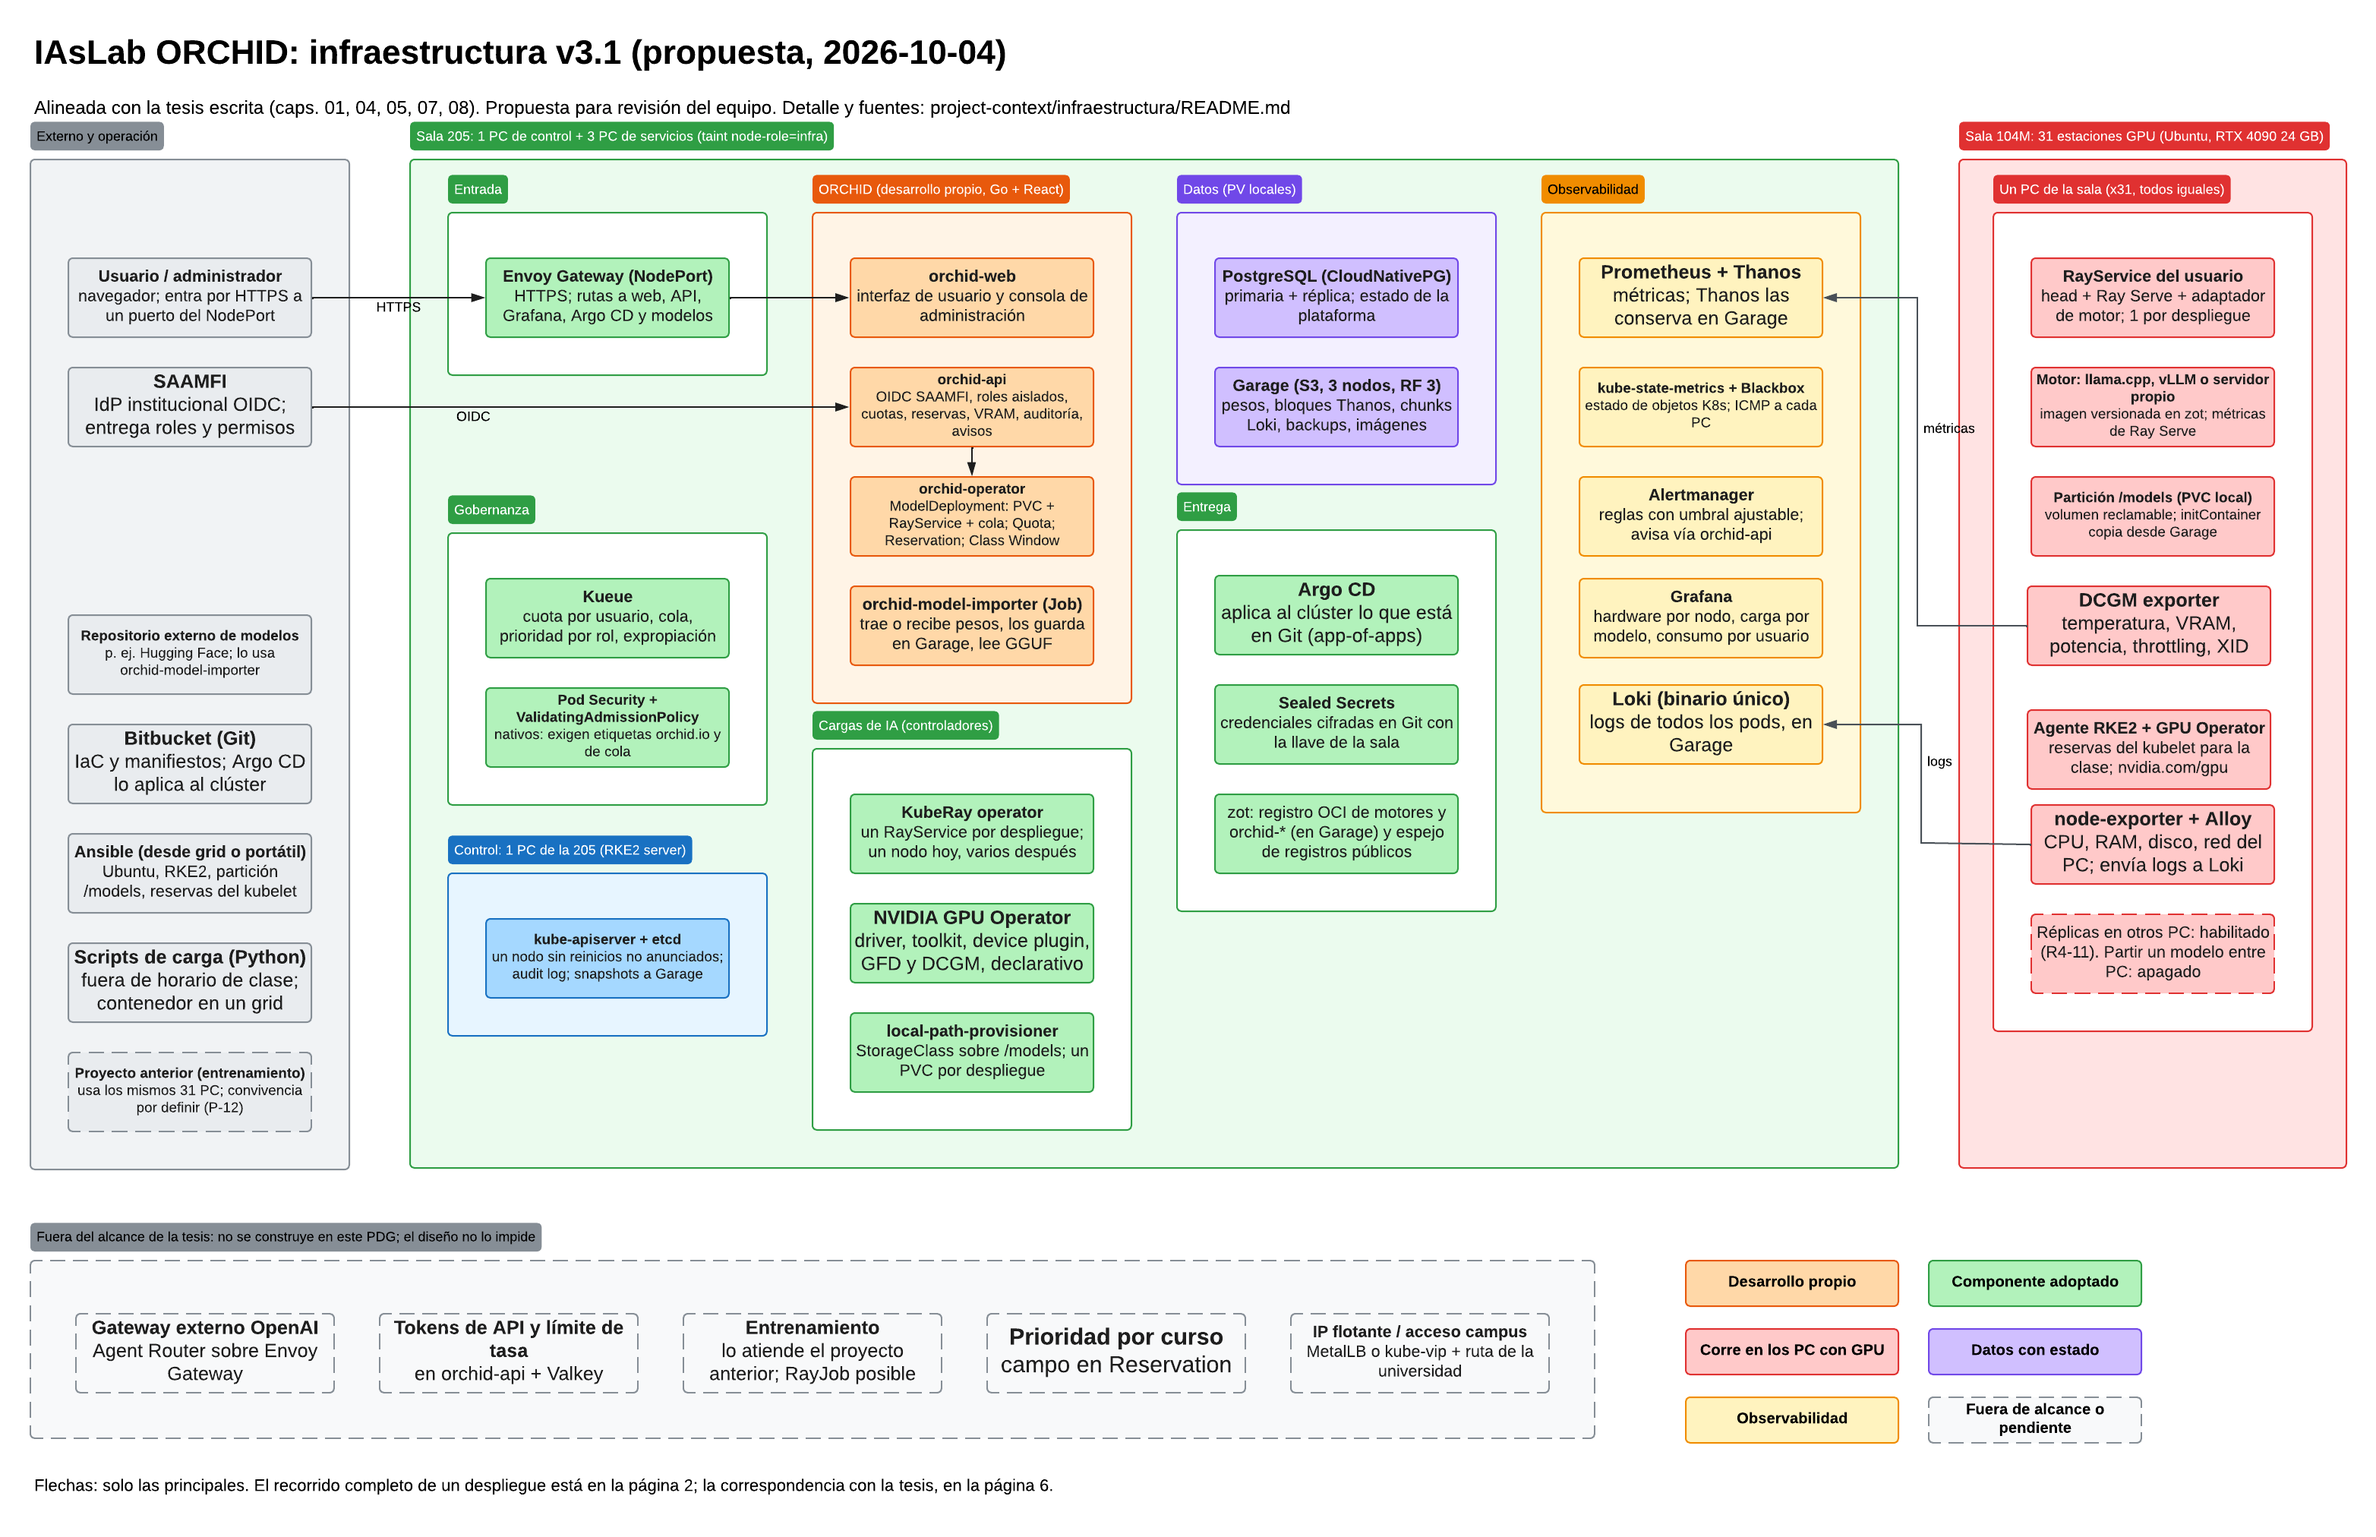
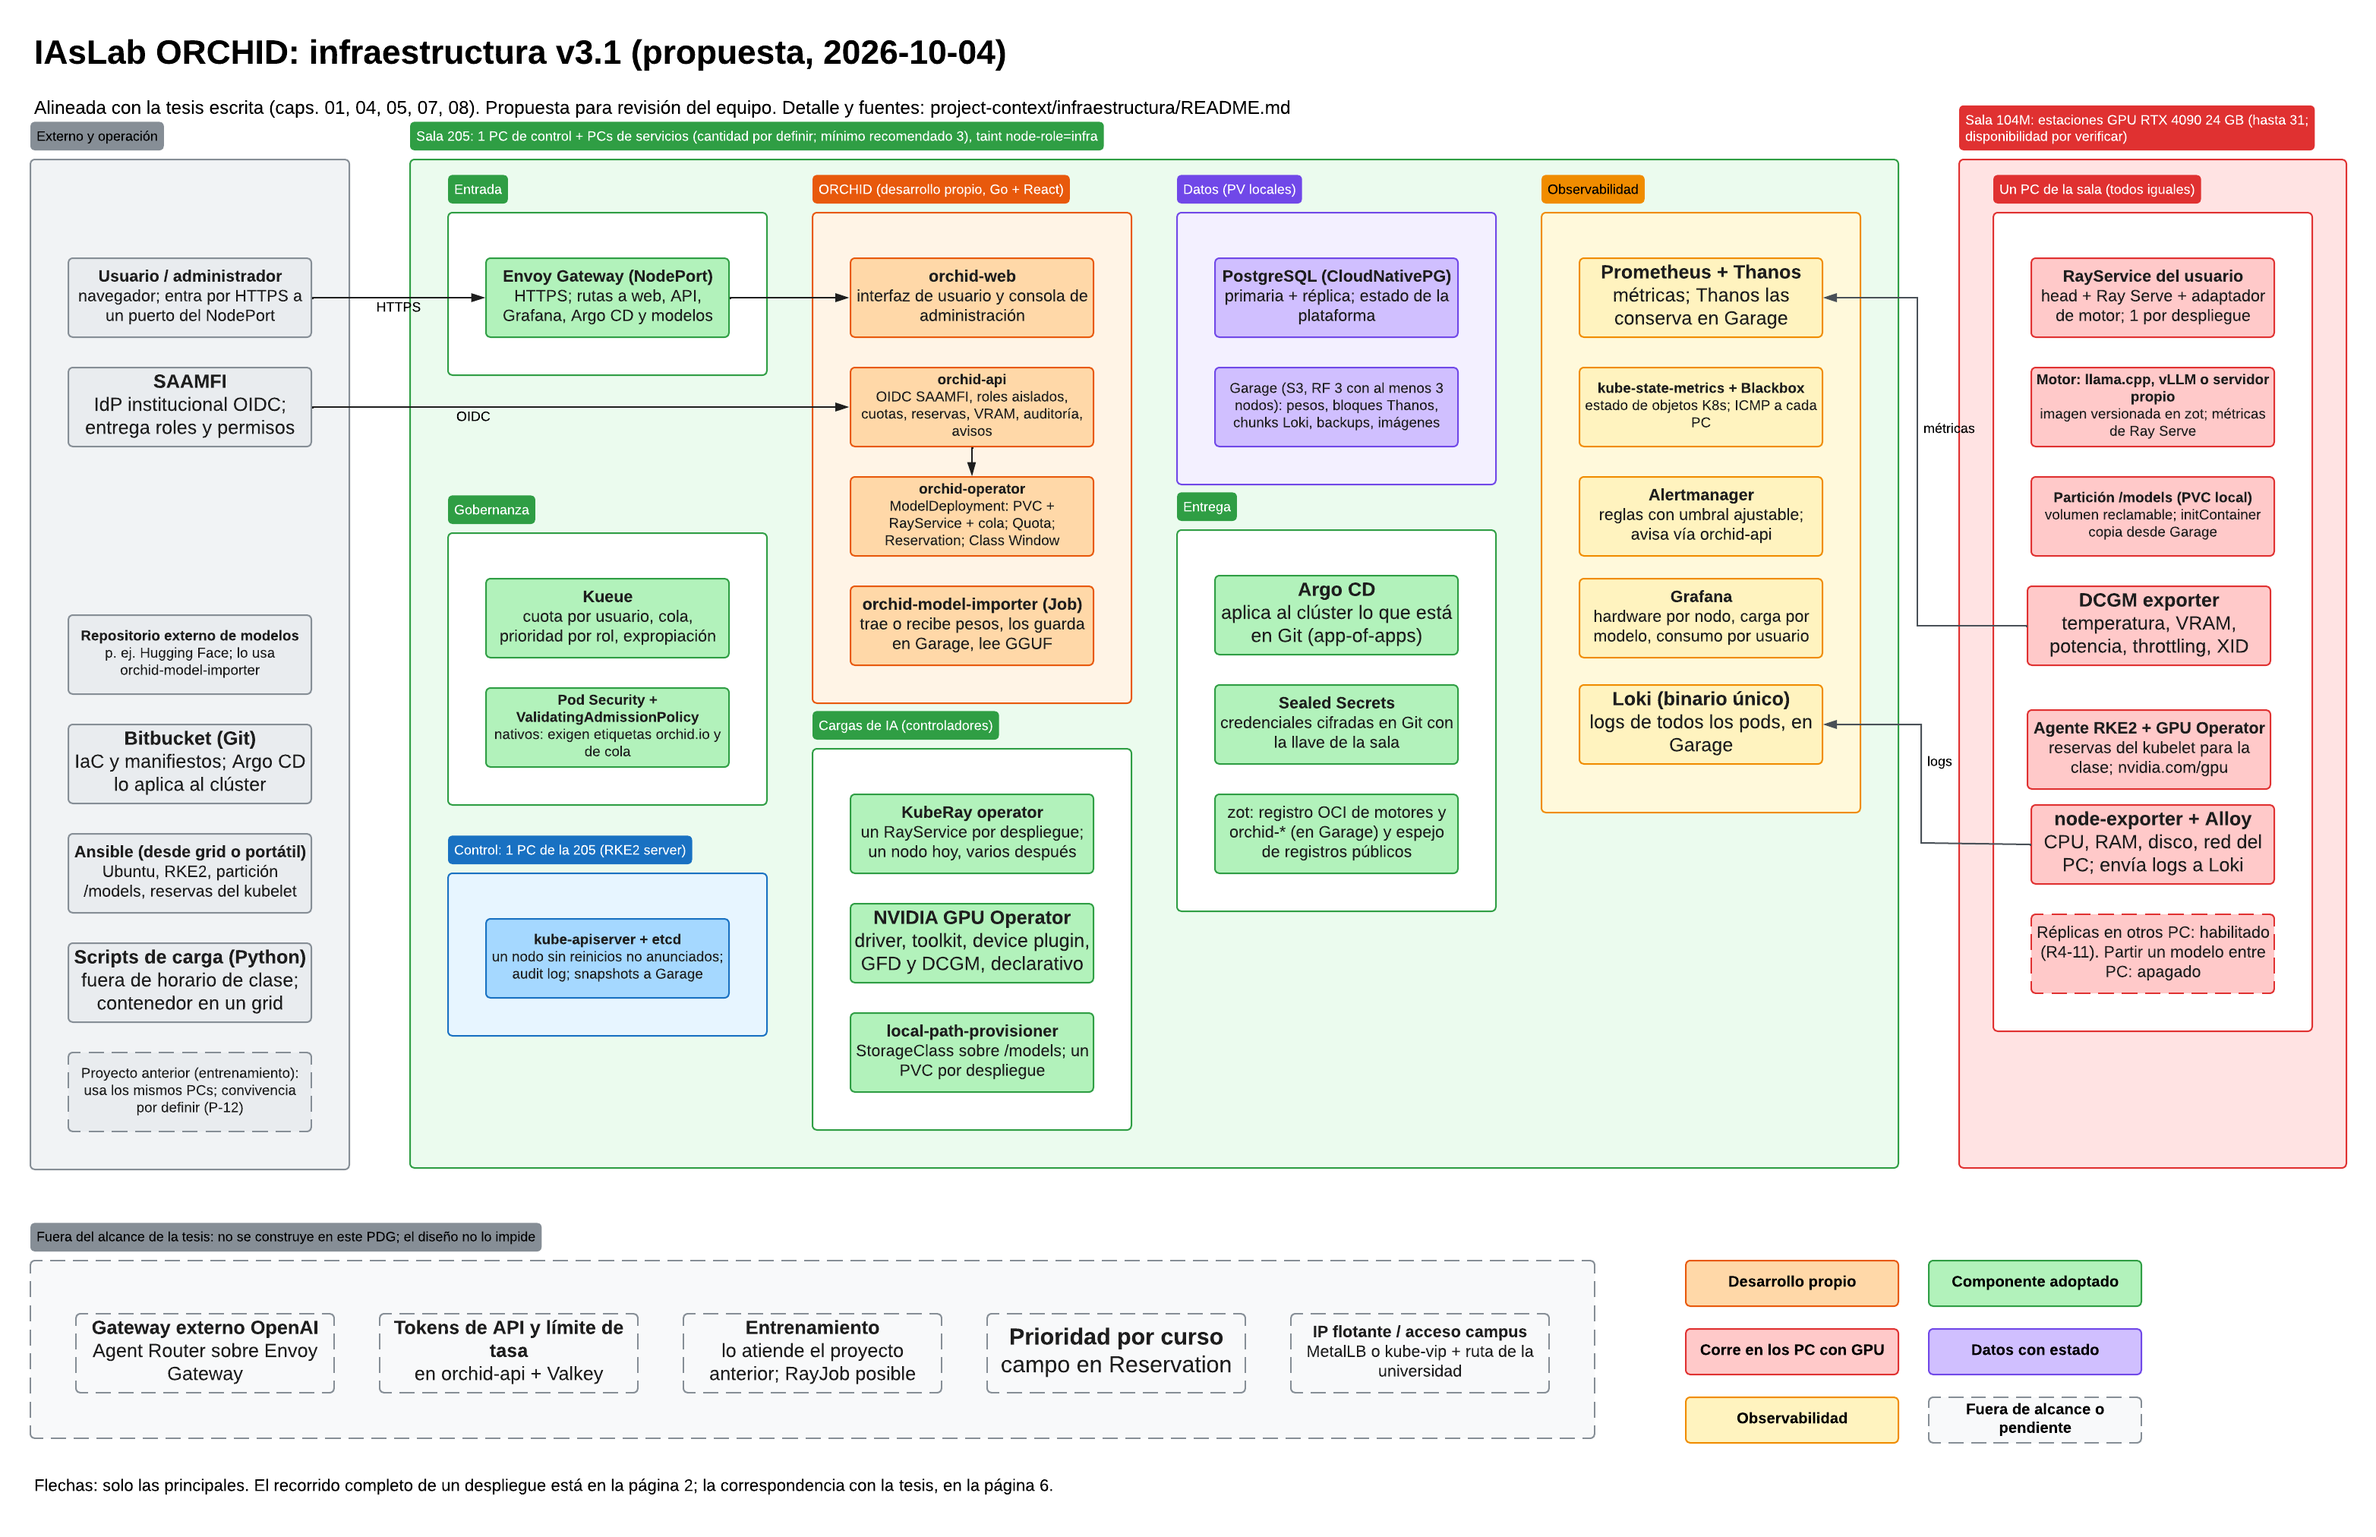
Deja sin fijar la cantidad de PCs y agrega los componentes externos

diff --git a/project-context/infraestructura/README.md b/project-context/infraestructura/README.md
@@ -38,7 +38,7 @@ Las ideas que ordenan el diseño:
 - **Adoptar antes que construir** (capítulo 05). El código propio (`orchid-app/`) solo traduce lo que pide el usuario a objetos de las piezas adoptadas (Kueue, KubeRay y cuotas nativas de Kubernetes). No reimplementa admisión ni *serving*.
 - **Separación física:**
   - La sala 205 aloja el control y los servicios.
-  - Los 31 PCs de la 104M solo ejecutan modelos y pueden apagarse sin afectar a nadie más que al modelo que tenían.
+  - Los PCs de la 104M solo ejecutan modelos y pueden apagarse sin afectar a nadie más que al modelo que tenían.
 - **Pocas piezas.** Cada componente responde a un requerimiento. Lo que ningún requerimiento pide queda fuera.
 
 ## 2. Topología física
@@ -46,14 +46,29 @@ Las ideas que ordenan el diseño:
 | Grupo | Máquinas | Qué corre |
 | :--- | :--- | :--- |
 | Control | 1 PC de la sala 205 | RKE2 *server* con etcd embebido. *Snapshots* de etcd a Garage. |
-| Servicios | 3 PCs de la sala 205, *taint* `node-role=infra` | Entrada, componentes propios, gobernanza, datos, entrega y observabilidad |
-| GPU | 31 PCs de la sala 104M (RTX 4090, 24 GB), *taint* `nvidia.com/gpu` | Agente RKE2, componentes del GPU Operator, DCGM, node-exporter, Alloy y los `RayService` de los usuarios |
+| Servicios | PCs de la sala 205, *taint* `node-role=infra`; **cantidad por definir** (mínimo recomendado: 3) | Entrada, componentes propios, gobernanza, datos, entrega y observabilidad |
+| GPU | PCs de la sala 104M (RTX 4090, 24 GB), *taint* `nvidia.com/gpu`; **cantidad por definir** | Agente RKE2, componentes del GPU Operator, DCGM, node-exporter, Alloy y los `RayService` de los usuarios |
 | Fuera del clúster | `grid100`/`grid101` o el portátil de quien opera | Ansible y los *scripts* de carga, en contenedores (regla de uso de los grid) |
 
+- **Lo decidido es el rol de cada sala y que haya un solo nodo de control; no las cantidades.** Según `acceso-infraestructura-iaslab.md`, la 104M tiene hasta 31 PCs con GPU (`192.168.131.101` a `.131`) y la 205 hasta 22 sin GPU (`.61` a `.82`). Al 2026-10-04 solo un PC de cada sala respondió a `ping` desde los *grid*: cuántos estarán disponibles para el clúster está por verificar.
 - **Inventario.** El número de PCs de cada grupo es un valor del inventario de Ansible por sala, no del diseño (R3-10).
+- **Mínimos del diseño.** 3 nodos de servicios para Garage con factor de réplica 3 y para Argo CD en alta disponibilidad, y 2 para la réplica de PostgreSQL. Con menos, se baja el factor de réplica de Garage (nunca puede superar el número de nodos) y Argo CD va sin alta disponibilidad.
 - **Nodo de control.** La tesis pide «un nodo de control» en «una máquina que permanece encendida sin reinicios no anunciados» (capítulo 07). Con un solo *server*, si ese PC se apaga, la API de Kubernetes deja de responder: no se pueden crear ni cambiar despliegues, pero los que ya corren siguen sirviendo. Hay que acordar con el laboratorio qué PC cumple esa condición (P-3).
 
 ## 3. Componentes
+
+### 3.0 Externo
+
+| Componente | Papel |
+| :--- | :--- |
+| Usuario / administrador | Usa `orchid-web` por HTTPS, a través del `NodePort` de Envoy Gateway |
+| SAAMFI | Proveedor de identidad OAuth 2.0 / OIDC (§3.2) |
+| Repositorio externo de modelos (p. ej. Hugging Face) | `orchid-model-importer` descarga de ahí los pesos cuando el usuario da un identificador (R3-29). Solo se usa al dar de alta un modelo; después los pesos se sirven desde Garage. |
+| Bitbucket (Git) | Repositorio de IaC y manifiestos que aplica Argo CD |
+| Ansible (desde un *grid* o un portátil) | Aprovisiona los nodos; corre fuera del clúster |
+| *Scripts* de carga | Pruebas de rendimiento externas a la plataforma, fuera del horario de clases |
+| Canal de notificaciones | Correo o chat donde `orchid-api` envía los avisos |
+| Proyecto anterior (plano de control de entrenamiento) | Usa los mismos PCs (cap. 01); convivencia por definir (P-12) |
 
 ### 3.1 Aprovisionamiento y clúster
 
@@ -114,7 +129,7 @@ Cada motor es una imagen en zot que contiene Ray y un adaptador de Ray Serve. El
 | Componente | Versión | Para qué |
 | :--- | :--- | :--- |
 | CloudNativePG | 1.30.1 | PostgreSQL de la plataforma y de Grafana: primaria + réplica, respaldo a Garage |
-| Garage | v2.4.1 | Almacén S3 en los 3 PCs de servicios, factor de réplica 3: `models`, `thanos`, `loki`, `pg-backups`, `etcd-snapshots`, `session-logs`, `bench-results`, `registry`. Reemplaza a MinIO, cuyo repositorio quedó archivado el 2026-04-25. |
+| Garage | v2.4.1 | Almacén S3 en los PCs de servicios, factor de réplica 3 si hay al menos 3: `models`, `thanos`, `loki`, `pg-backups`, `etcd-snapshots`, `session-logs`, `bench-results`, `registry`. Reemplaza a MinIO, cuyo repositorio quedó archivado el 2026-04-25. |
 
 ### 3.8 Entrega
 
@@ -281,9 +296,9 @@ Antes de escribir los ADR definitivos, conviene comprobar en **1 PC de la 104M y
 | # | Pregunta | Corresponde a |
 | :--- | :--- | :--- |
 | P-1 | ¿Se corrige el encabezado de la sección 3 de `requirements.md` («se construyen») para que diga que no se programan en este PDG? ¿Se alinea la sección 3.1 (entrenamiento) con el capítulo 01? | autores |
-| P-3 | ¿Qué PC de la 205 es el nodo de control y el laboratorio se compromete a no reiniciarlo sin aviso? | autores + laboratorio |
+| P-3 | ¿Cuántos PCs de cada sala están disponibles para el clúster? ¿Qué PC de la 205 es el nodo de control y el laboratorio se compromete a no reiniciarlo sin aviso? | autores + laboratorio |
 | P-6 | Si los PCs necesitan el driver del host para las clases, ¿se ajusta el texto de la tesis sobre el GPU Operator (capítulos 05 y 07)? | autores (tras la prueba) |
-| P-12 | ¿Cómo usa el proyecto anterior (plano de control de entrenamiento) los mismos 31 PCs? Si usa la GPU fuera de este clúster, Kueue no lo ve. | autores + laboratorio |
+| P-12 | ¿Cómo usa el proyecto anterior (plano de control de entrenamiento) los mismos PCs? Si usa la GPU fuera de este clúster, Kueue no lo ve. | autores + laboratorio |
 | P-13 | ¿Se nombra Kueue en `technologies.md`? (El capítulo 05 lo deja pendiente.) | autores |
 | P-F | ¿Hay un nombre DNS institucional para la plataforma? | laboratorio |
 | R1-10, R1-14 | Si la prueba confirma que la RTX 4090 no da temperatura de memoria ni PCIe, ¿se ajustan esos requerimientos y la frase del capítulo 05? | autores (tras la prueba) |
